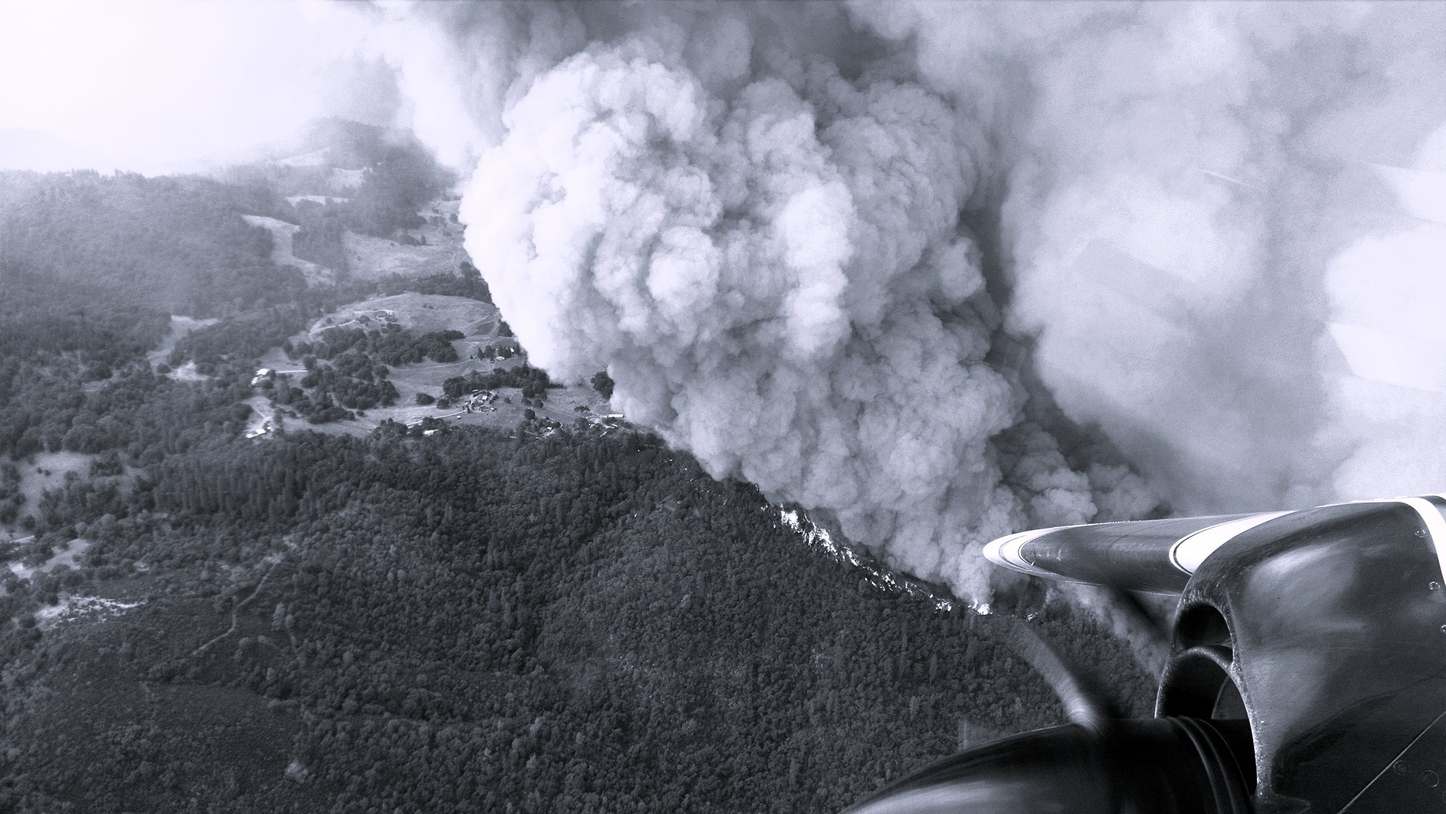
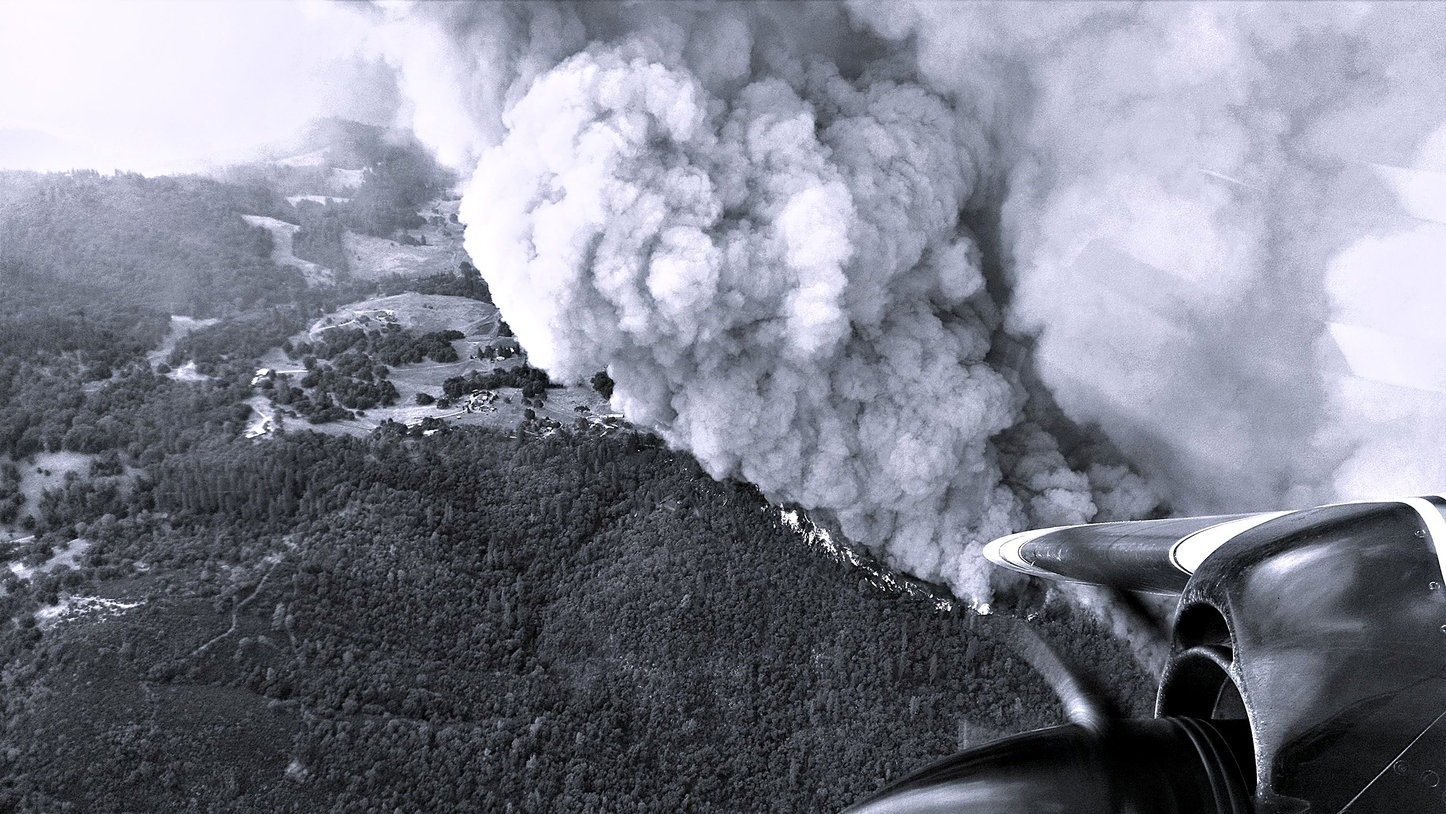
hero update
hero update

diff --git a/styles.css b/styles.css
@@ -334,10 +334,26 @@ body.has-hero .site-header.is-scrolled .nav-toggle { color: var(--color-ink); }
   /* Shifted down from 45% so the aircraft wing/engine in the frame's lower
      right — the detail that actually earns this photo its aviation-led
      story — survives the crop instead of falling below it (see stylistic
-     review, Aug 2026). Filter lifts overall exposure slightly so the photo
-     reads through the gradient instead of going murky. */
+     review, Aug 2026). */
   object-position: 62% 62%;
-  filter: brightness(1.16) contrast(1.02);
+  /* The smoke plume is the photo's whole reason for being here, and it was
+     losing its own texture: brightness(1.16) was a flat multiply across
+     every pixel, which does nothing useful under the ::before scrim (a
+     94%-opaque black overlay crushes a brightened pixel exactly as dark as
+     an unbrightened one) but blows out the plume's highlights everywhere
+     the scrim is thin — measured at 15.4% of the frame pushed to
+     near-white and 22.0% of pixels clipping a channel, against 1.7%/4.8%
+     in the source file. Fixed at the source instead of papering over it
+     with a filter: hero-photo.jpg now carries a baked-in micro-sharpen
+     (UnsharpMask r=1.6/70%) plus a large-radius, low-percent "clarity"
+     pass (r=45/35%) that restores the plume's folds and edge definition
+     without an across-the-board exposure lift. The filter here dropped to
+     a plain contrast bump for a little more punch against the dark scrim;
+     with the baked-in clarity pass this still lands at only 7.5%/11.7% —
+     well below the old flat-brightness look, without the murky-under-the-
+     gradient tradeoff a straight revert to the unenhanced file would have
+     made (see hero photo review, Sept 2026). */
+  filter: contrast(1.05);
   z-index: 0;
 }
 .hero::before {
